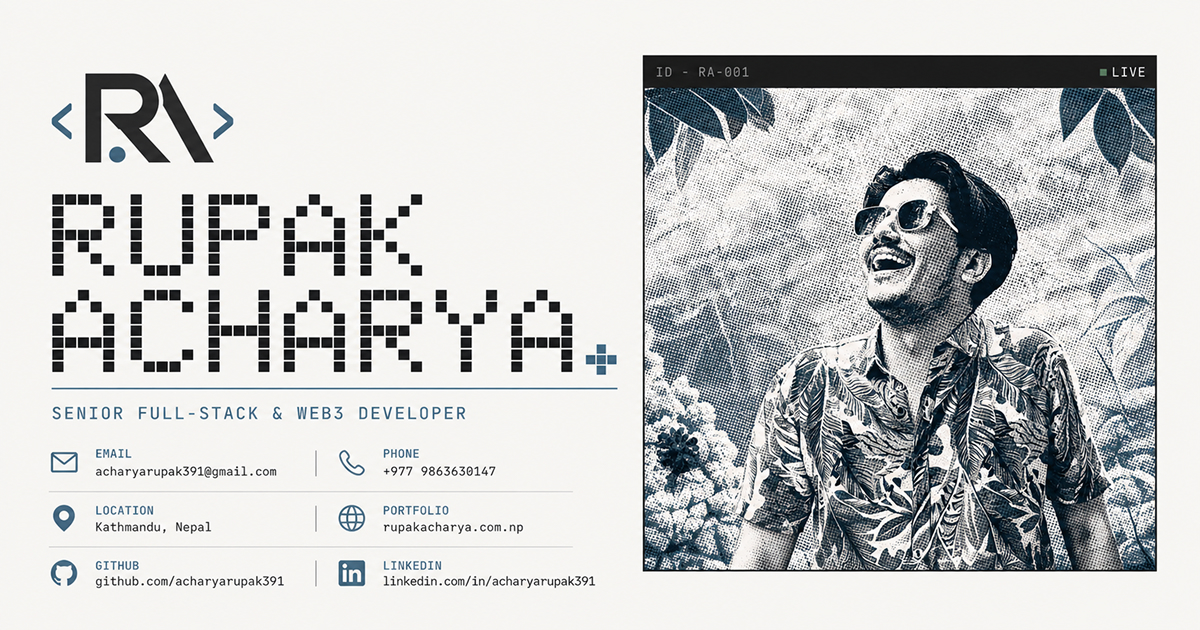
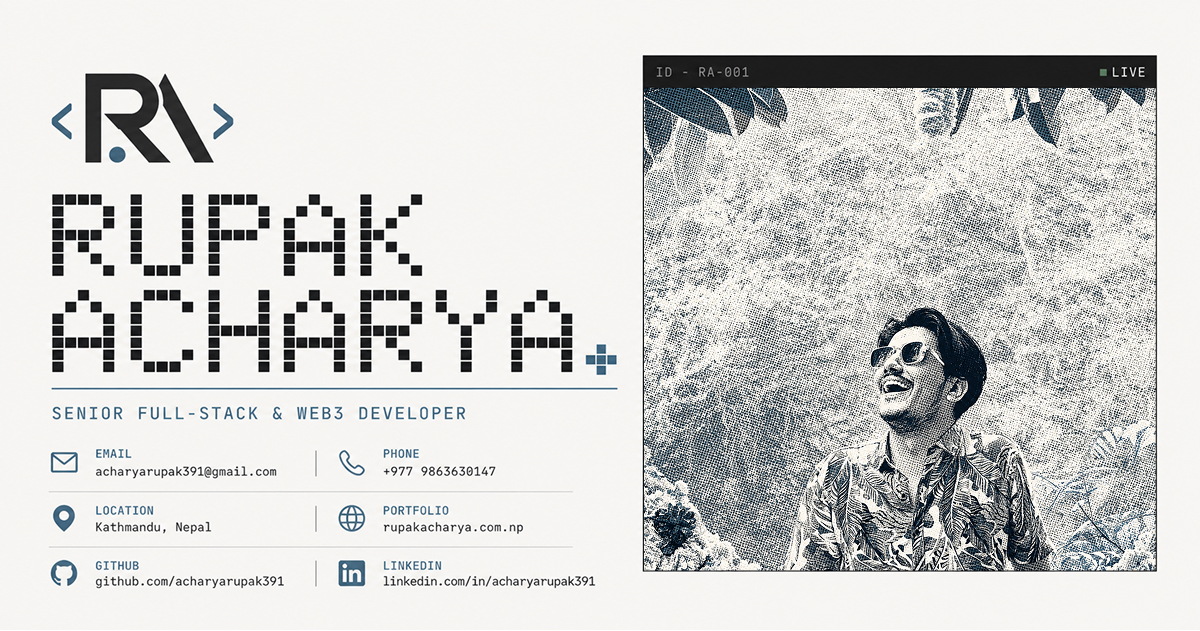
update og image and seo

diff --git a/app/layout.tsx b/app/layout.tsx
@@ -1,8 +1,9 @@
-import type { Metadata } from "next";
+import type { Metadata, Viewport } from "next";
 import { Inter_Tight, Space_Grotesk, JetBrains_Mono } from "next/font/google";
 import "./globals.css";
 import { Toaster } from "@/components/ui/toaster";
 import { GrainOverlay } from "@/components/portfolio/grain-overlay";
+import { profile } from "@/data/portfolio";
 
 const inter = Inter_Tight({
   variable: "--font-inter",
@@ -29,6 +30,17 @@ const siteUrl = "https://rupakacharya.com.np";
 const siteTitle = "Rupak Acharya — Full-Stack & Web3 Engineer";
 const siteDescription =
   "Senior full-stack web developer with 4+ years building React, Next.js, Node.js, and Web3 platforms. Currently senior frontend developer at Bivo, building creator-focused CRM, and frontend & Web3 developer at Minestarters.";
+const socialImage = `${siteUrl}/og.jpg`;
+const socialImageAlt = "Rupak Acharya — Full-Stack & Web3 Engineer";
+
+export const viewport: Viewport = {
+  width: "device-width",
+  initialScale: 1,
+  themeColor: [
+    { media: "(prefers-color-scheme: light)", color: "#f2f1ed" },
+    { media: "(prefers-color-scheme: dark)", color: "#0d0e10" },
+  ],
+};
 
 export const metadata: Metadata = {
   metadataBase: new URL(siteUrl),
@@ -49,10 +61,16 @@ export const metadata: Metadata = {
     "Nepal",
     "Frontend Engineer",
   ],
-  authors: [{ name: "Rupak Acharya" }],
+  applicationName: "Rupak Acharya Portfolio",
+  category: "technology",
+  classification: "Personal portfolio and professional profile",
+  authors: [{ name: "Rupak Acharya", url: siteUrl }],
   creator: "Rupak Acharya",
   publisher: "Rupak Acharya",
-  alternates: { canonical: siteUrl },
+  alternates: {
+    canonical: siteUrl,
+    languages: { "en-US": siteUrl },
+  },
   openGraph: {
     title: siteTitle,
     description: siteDescription,
@@ -60,13 +78,23 @@ export const metadata: Metadata = {
     siteName: "Rupak Acharya — Portfolio",
     locale: "en_US",
     type: "profile",
-    images: ["/og.png"],
+    images: [
+      {
+        url: socialImage,
+        width: 1200,
+        height: 630,
+        alt: socialImageAlt,
+        type: "image/jpeg",
+      },
+    ],
   },
   twitter: {
     card: "summary_large_image",
+    site: "@acharyarupak391",
+    creator: "@acharyarupak391",
     title: siteTitle,
     description: siteDescription,
-    images: ["/og.png"],
+    images: [{ url: socialImage, alt: socialImageAlt }],
   },
   robots: {
     index: true,
@@ -79,44 +107,64 @@ export const metadata: Metadata = {
     },
   },
   icons: {
-    icon: [{ url: "/favicon.svg", type: "image/svg+xml" }],
+    icon: [
+      { url: "/favicon.svg", type: "image/svg+xml" },
+      { url: "/logo.svg", type: "image/svg+xml", sizes: "512x512" },
+    ],
+    shortcut: ["/favicon.svg"],
   },
 };
 
-const personJsonLd = {
+const structuredData = {
   "@context": "https://schema.org",
-  "@type": "Person",
-  name: "Rupak Acharya",
-  jobTitle: "Senior Full-Stack & Web3 Developer",
-  email: "mailto:acharyarupak391@gmail.com",
-  telephone: "+9779863630147",
-  address: {
-    "@type": "PostalAddress",
-    addressLocality: "Kathmandu",
-    addressCountry: "Nepal",
-  },
-  description: siteDescription,
-  url: siteUrl,
-  knowsAbout: [
-    "React",
-    "Next.js",
-    "Node.js",
-    "TypeScript",
-    "Web3",
-    "Solidity",
-    "Smart Contracts",
-    "Machine Learning",
-    "Python",
-    "Golang",
+  "@graph": [
+    {
+      "@type": "WebSite",
+      "@id": `${siteUrl}/#website`,
+      url: siteUrl,
+      name: siteTitle,
+      description: siteDescription,
+      publisher: { "@id": `${siteUrl}/#person` },
+      inLanguage: "en-US",
+    },
+    {
+      "@type": "Person",
+      "@id": `${siteUrl}/#person`,
+      name: profile.name,
+      url: siteUrl,
+      image: `${siteUrl}/profile.png`,
+      jobTitle: profile.role,
+      email: `mailto:${profile.email}`,
+      telephone: profile.phone,
+      address: {
+        "@type": "PostalAddress",
+        addressLocality: "Kathmandu",
+        addressCountry: "NP",
+      },
+      description: siteDescription,
+      sameAs: [profile.githubUrl, profile.linkedinUrl],
+      knowsAbout: [
+        "React",
+        "Next.js",
+        "Node.js",
+        "TypeScript",
+        "Web3",
+        "Solidity",
+        "Smart Contracts",
+        "Machine Learning",
+        "Python",
+        "Golang",
+      ],
+      worksFor: [
+        { "@type": "Organization", name: "Bivo" },
+        { "@type": "Organization", name: "Minestarters" },
+      ],
+      alumniOf: {
+        "@type": "CollegeOrUniversity",
+        name: "Malla Reddy College of Engineering & Technology",
+      },
+    },
   ],
-  worksFor: [
-    { "@type": "Organization", name: "Bivo" },
-    { "@type": "Organization", name: "Minestarters" },
-  ],
-  alumniOf: {
-    "@type": "CollegeOrUniversity",
-    name: "Malla Reddy College of Engineering & Technology",
-  },
 };
 
 export default function RootLayout({
@@ -127,7 +175,7 @@ export default function RootLayout({
       <head>
         <script
           type="application/ld+json"
-          dangerouslySetInnerHTML={{ __html: JSON.stringify(personJsonLd) }}
+          dangerouslySetInnerHTML={{ __html: JSON.stringify(structuredData) }}
         />
       </head>
       <body

diff --git a/app/robots.ts b/app/robots.ts
@@ -6,7 +6,9 @@ export default function robots(): MetadataRoute.Robots {
     rules: {
       userAgent: "*",
       allow: "/",
+      disallow: ["/api/"],
     },
     sitemap: `${baseUrl}/sitemap.xml`,
+    host: baseUrl,
   };
 }
